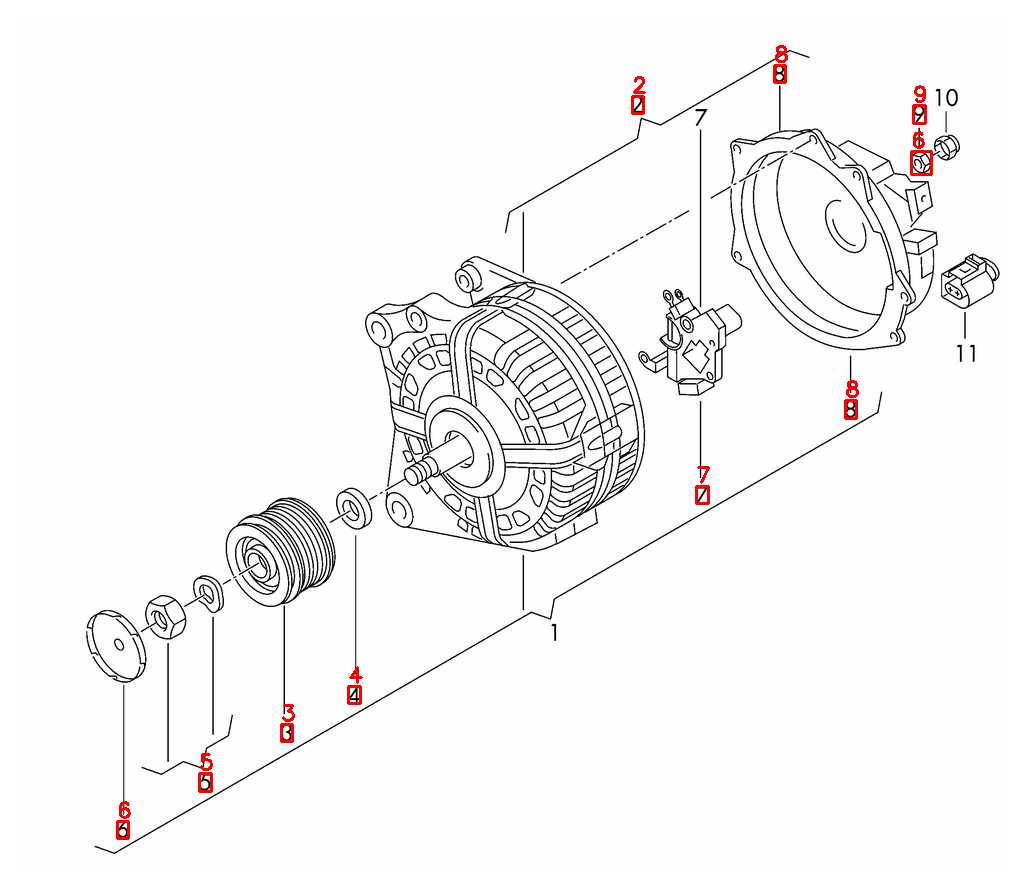
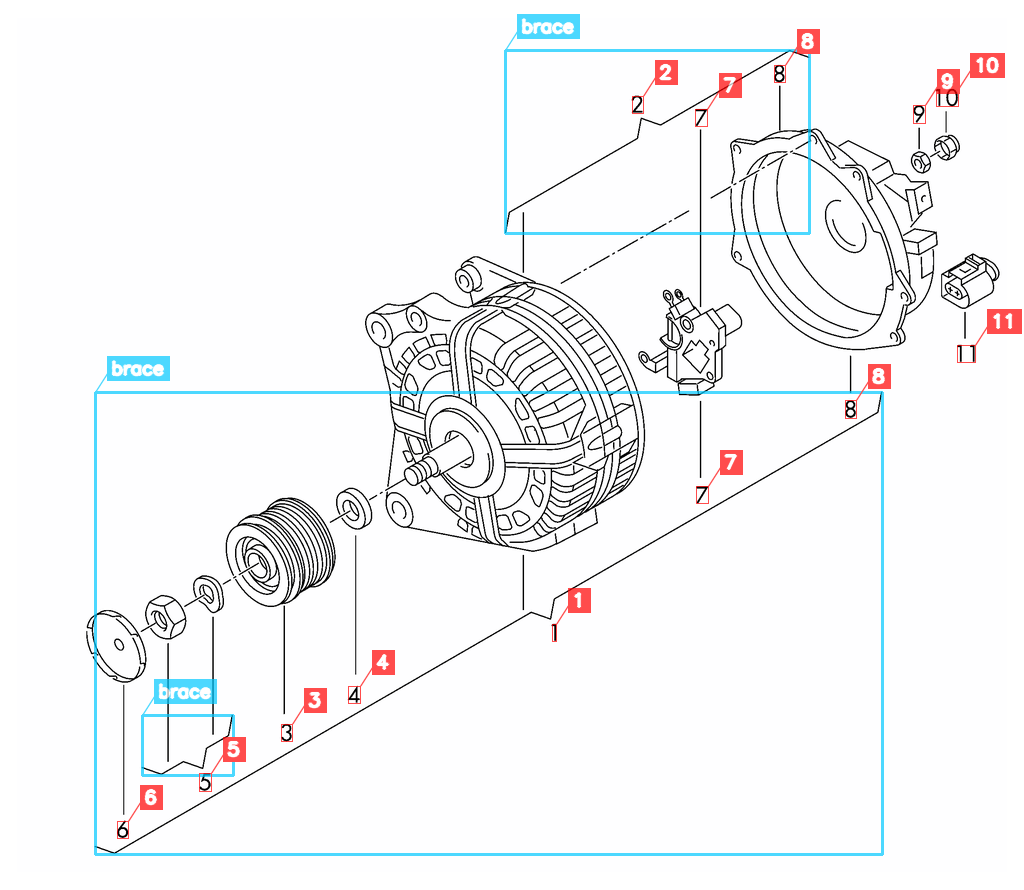
docs: refresh README for callouts, diagonal braces, thin-1 recovery
Regenerate the example overlay (now shows leader-linked transparent
callouts, the recovered 1/10/11, and the 3 diagonal braces). Update the
caption, how-it-works, JSON example (open_braces key), and limitations to
match the current pipeline.

diff --git a/README.md b/README.md
@@ -18,8 +18,10 @@ don't need OCR; this fills the gap for the raster ones.
 |:---:|:---:|
 | ![input](assets/example-input.png) | ![output](assets/example-overlay.png) |
 
-*Red boxes = detected callout numbers. On diagrams that use grouping braces,
-each brace is drawn in magenta with its group id.*
+*Each detected callout number is pulled out as a red leader-linked label.
+Grouping braces are highlighted: cyan for braces drawn as diagonal lines, and
+magenta (with the group id) for braces bound to their member callouts. All marks
+are semi-transparent so the underlying drawing stays readable.*
 
 ## How it works
 
@@ -28,11 +30,14 @@ words, not isolated digits), so detection is done with classic CV and only the
 *recognition* uses ML:
 
 1. **Detect** glyph blobs with connected components, group adjacent ones into numbers.
+   A fill + aspect-ratio filter keeps narrow `1`/`11` digits while rejecting
+   leader-line fragments.
 2. **Gate** by whitespace isolation: real callouts sit in the margin, drawing
    features sit in ink.
 3. **Recognize** every candidate in one batched EasyOCR call (`0-9` + `A/B` suffix).
 4. **Group** detected `{` braces (vertical and horizontal), binding each to its
-   group-id + member callouts.
+   group-id + member callouts. Braces drawn as diagonal lines are also detected
+   (as open polylines) and highlighted, though not yet auto-numbered.
 
 See [`docs/adr/`](docs/adr) for the decisions behind this (engine choice, grouping).
 
@@ -59,7 +64,7 @@ python -m src.detect --no-overlay
 ```
 
 Outputs land in `data/out/`:
-- `<name>.json`: detections + groups
+- `<name>.json`: detections, groups, and `open_braces` (diagonal brace boxes)
 - `<name>_overlay.png`: annotated image
 
 ```json
@@ -67,7 +72,8 @@ Outputs land in `data/out/`:
   "image": "258103600.png",
   "detections": [{"text": "17", "conf": 1.0, "bbox": [135, 340, 179, 374]}],
   "groups": [{"group": "15", "members": [{"text": "17", "bbox": [...]}],
-              "brace_bbox": [...], "group_bbox": [...]}]
+              "brace_bbox": [...], "group_bbox": [...]}],
+  "open_braces": [[505, 50, 304, 183]]
 }
 ```
 
@@ -84,7 +90,8 @@ pip install pytest && python -m pytest tests -q
 - Interior drawing features occasionally misread as a digit.
 - Nested braces double-count: a sub-group's members also list under the outer group.
 - Only `A`/`B` callout suffixes; the letter is sometimes lost when faint (`4A` → `4`).
-- Very small/thin callouts can be missed.
+- Diagonal grouping braces are detected and highlighted but not yet auto-numbered
+  (the prong that points at the group id is too noisy to read reliably).
 
 The original 2018 Python 2.7 template-matching + KNN prototype is kept under
 [`legacy/`](legacy) for reference.
